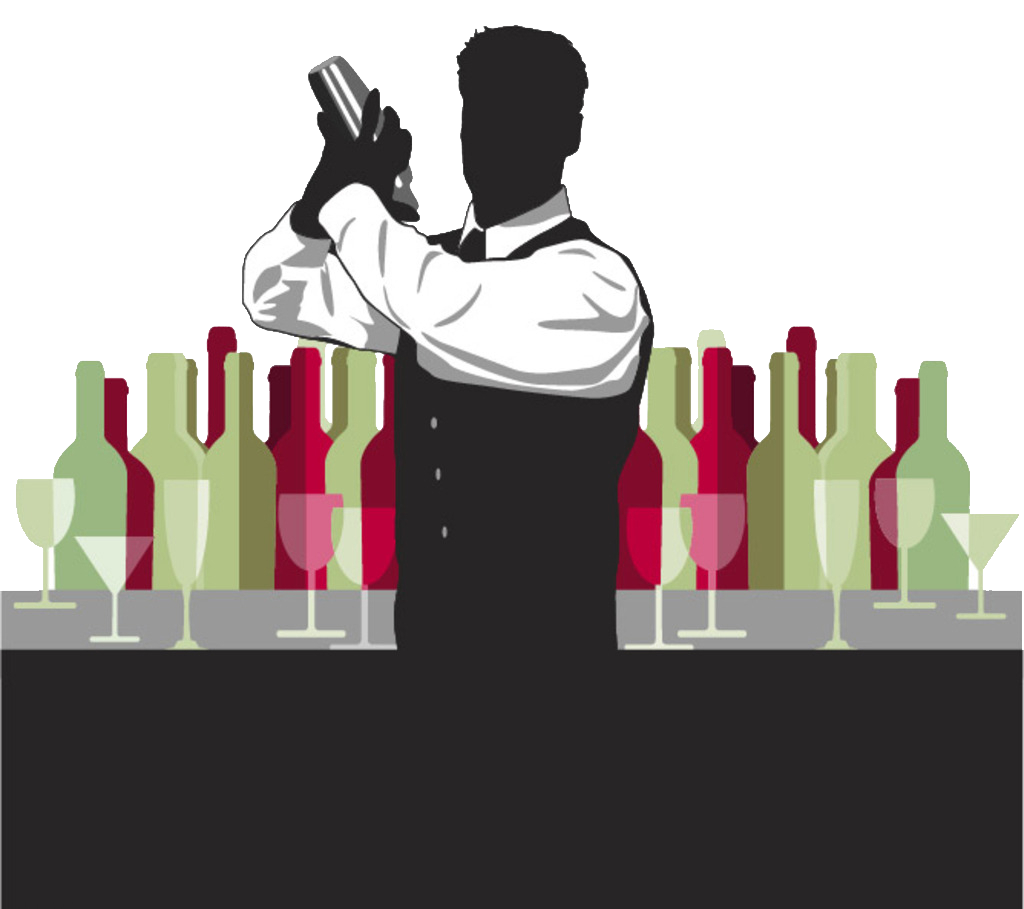
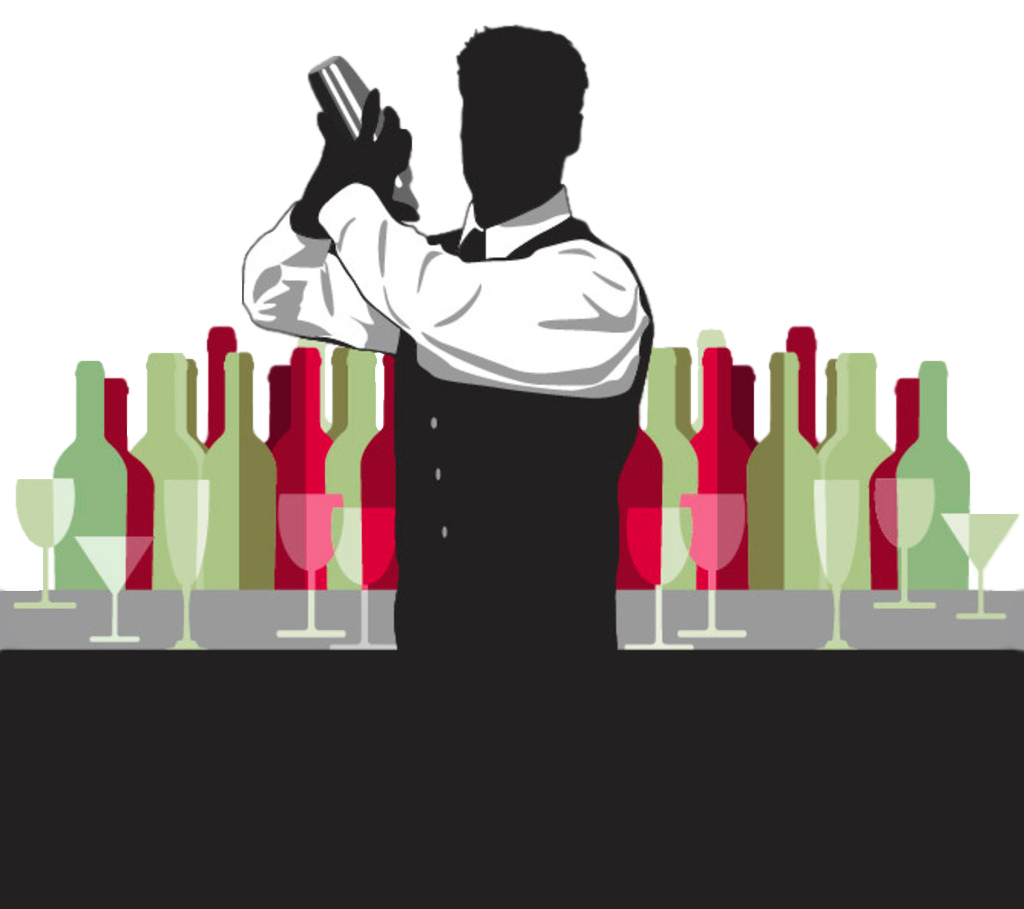
fix: change table bg, del comments, minor style & code fixes

diff --git a/rs-css/src/index.html b/rs-css/src/index.html
@@ -2,19 +2,15 @@
 <html lang="en">
 
 <head>
-  <!-- <link rel="stylesheet" href="//cdnjs.cloudflare.com/ajax/libs/highlight.js/9.15.9/styles/default.min.css">
-  <script src="//cdnjs.cloudflare.com/ajax/libs/highlight.js/9.15.9/highlight.min.js"></script> -->
   <meta charset="UTF-8">
   <meta name="viewport" content="width=device-width, initial-scale=1.0">
-  <!-- <link rel="stylesheet" href="./styles/style.css"> -->
   <title>rs-css</title>
-  <!-- <script type="text/javascript" src="highlight.js"></script> -->
-  <!-- <link href="https://fonts.googleapis.com/css?family=Pacifico" rel="stylesheet"> -->
   <link href="https://fonts.googleapis.com/css?family=Montserrat" rel="stylesheet">
   <link rel="apple-touch-icon" sizes="180x180" href=".../src/favicon/apple-touch-icon.png">
   <link rel="icon" type="image/png" sizes="32x32" href="../src/favicon/favicon-32x32.png">
   <link rel="icon" type="image/png" sizes="16x16" href="../src/favicon/favicon-16x16.png">
   <link rel="mask-icon" href="../src/favicon/safari-pinned-tab.svg" color="#5bbad5">
+  <link rel="shortcut icon" href="assets/imgs/favicon.png" type="image/x-icon">
   <meta name="msapplication-TileColor" content="#ffc40d">
   <meta name="theme-color" content="#ffffff">
 </head>
@@ -42,9 +38,6 @@
                 <a href="#" class="arrow arrow-right" id="levelNext"></a>
               </div>
             </li>
-            <!-- <li class="nav__item">
-              <a href="#" class="level-theory" id="theoryBtn">A</a>
-            </li> -->
             <li class="nav__item">
               <a href="#" class="burger levels-list" id="burgerOpen">
                 <svg class="icon burger__icon" width="34" height="30" viewBox="0 0 34 30" fill="none"
@@ -97,13 +90,6 @@
     <main>
       <div class="wrapper">
         <h2 class="order">Select <span id="task">empty glasses</span></h2>
-        <!-- <div class="help">
-          <h3></h3>
-          <p></p>
-          <p></p>
-          <a href="#" class="help-btn btn help-btn--light">Ok, got it!</a>
-        </div> -->
-        <!-- <a href="#" class="btn--help btn" id="help_btn">Help, I'm stuck!</a> -->
         <div class="show-box">
           <div class="table" id="table">
           </div>
@@ -128,7 +114,6 @@
               </div>
               <div id="inputColor"></div>
               <input type="text" class="css-input" id="input" placeholder="Type in a CSS selector"></input>
-              <!-- <div class="wall"></div> -->
               <a href="#" class="btn btn--enter" id="enter">enter</a>
               <a href="#" class="btn--help btn" id="help_btn">Help!</a>
               <div class="task-reminder-text">
@@ -151,11 +136,6 @@
               </div>
               <div id="colorMarkup"></div>
               <div class="markup" id="markup">
-                <!-- &lt;div class="table"&gt; 
-                  <glass class="empty">&lt;glass class="empty" /&gt;</glass>
-                  <glass class="empty">&lt;glass class="empty" /&gt;</glass>
-                  <glass class="empty">&lt;glass class="empty" /&gt;</glass>
-                &lt;/div&gt;  -->
               </div>
 
 
@@ -182,7 +162,6 @@
     </footer>
 
   </div>
-  <!-- <script src="../src/scripts/app.js" type="module"></script> -->
 </body>
 
 </html>

diff --git a/rs-css/src/scripts/app.js b/rs-css/src/scripts/app.js
@@ -86,8 +86,6 @@ function clearState() {
 
 function fail() {
   fileWindowEl.classList.add('wrong');
-  // eslint-disable-next-line no-alert
-  // alert('ты дурачок');
   setTimeout(clearState, 900);
 }
 
@@ -128,13 +126,14 @@ function win() {
   const completeStats = getCompleteStats();
   const solvedLevels = Object.keys(completeStats).length;
 
+  // console.log(solvedLevels, currentLevel);
   if (solvedLevels === 20) {
     if (Object.values(completeStats).includes(0)) {
       winTextEl.textContent = 'Congratulation! you win, but what did it cost?';
     } else {
       winTextEl.textContent = 'Congratulation! You are best of the best in CSS World!';
     }
-  } else if (currentLevel === 20) {
+  } else if (solvedLevels !== 20 && integerLever === 20) {
     winTextEl.textContent = 'Well done! but for final victory you need to pass all levels';
     levelsMenuOpen();
   } else {
@@ -281,9 +280,7 @@ function updateMarkColor() {
   if (completeStats) {
     // eslint-disable-next-line no-restricted-syntax
     for (const [key, value] of Object.entries(completeStats)) {
-      // console.log(key);
       const marks = levelsList.querySelectorAll('.check-mark--mini');
-      // console.log(marks[key - 1]);
       const mark = marks[key - 1];
       if (value === 0) {
         mark.classList.add('cheat');

diff --git a/rs-css/src/scripts/typewriter.js b/rs-css/src/scripts/typewriter.js
@@ -12,6 +12,8 @@ function colorInput() {
 export default function typewriterEffect(selector, text, i) {
   const input = document.querySelector(`${selector}`);
   input.value = text.substring(0, i);
+  // I disabled eslint, because I need this param re-assign,
+  // I can't imagine how  this can be rewritten
   // eslint-disable-next-line no-param-reassign
   i += 1;
   if (i > text.length) {

diff --git a/rs-css/src/styles/style.scss b/rs-css/src/styles/style.scss
@@ -467,7 +467,6 @@ main {
     height: 44.5rem;
     z-index: 20;
 
-    background-color: rgb(50, 28, 179);
     background-image: url("../assets/table.png");
     background-size: contain;
     background-repeat: no-repeat;

diff --git a/rs-css/src/scripts/variables.js b/rs-css/src/scripts/variables.js
@@ -1,4 +1,5 @@
 const levelsList = document.querySelector('#levelsList');
 
+// I want to add here all my variables (in future)
 // eslint-disable-next-line import/prefer-default-export
 export { levelsList };
